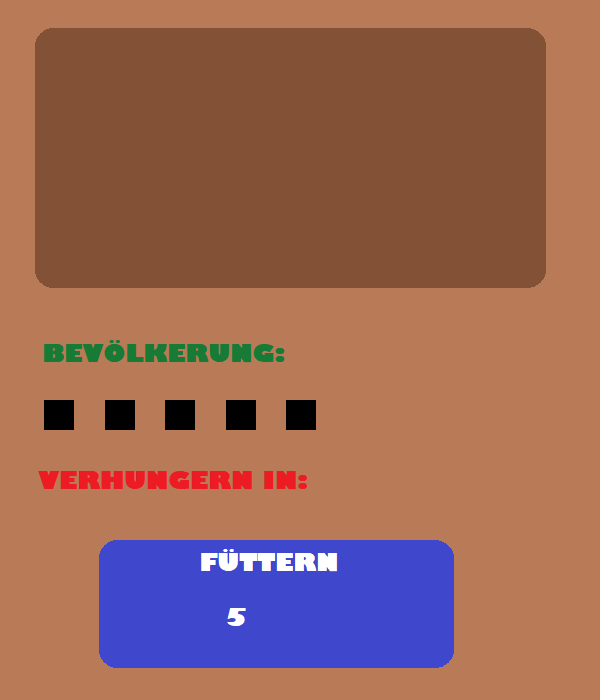
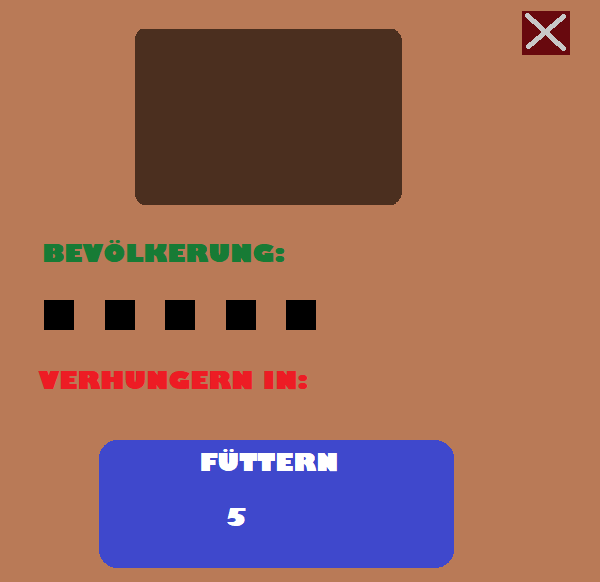
BarnInfo Zeichnungsprobleme

diff --git a/src/model/GameObjects/BarnInfo.java b/src/model/GameObjects/BarnInfo.java
@@ -18,7 +18,7 @@ public class BarnInfo extends GraphicalObject {
     private ProgramController pc;
     private boolean klicked, visible = false;
     private Barn b;
-    private BufferedImage food, point, barn;
+    private BufferedImage food, point1, point2, point3, point4, point5, barn;
     private Rectangle2D.Double hitbox;
 
     public BarnInfo(double x, double y, ProgramController pc, Barn b){
@@ -38,7 +38,12 @@ public class BarnInfo extends GraphicalObject {
             if(b.getFood().equals("cherry"))food = ImageIO.read(new File("assets/images/UiImages/cherry.png"));
             if(b.getFood().equals("carrot"))food = ImageIO.read(new File("assets/images/UiImages/carrot.png"));
             if(b.getFood().equals("wheat"))food = ImageIO.read(new File("assets/images/UiImages/wheat.png"));
-            point = ImageIO.read(new File("assets/images/UiImages/cherry.png"));
+            point1 = ImageIO.read(new File("assets/images/UiImages/point.png"));
+            point2 = ImageIO.read(new File("assets/images/UiImages/point.png"));
+            point3 = ImageIO.read(new File("assets/images/UiImages/point.png"));
+            point4 = ImageIO.read(new File("assets/images/UiImages/point.png"));
+            point5 = ImageIO.read(new File("assets/images/UiImages/point.png"));
+
             barn = b.getBarnImage();
 
 
@@ -49,9 +54,22 @@ public class BarnInfo extends GraphicalObject {
 
     @Override
     public void draw(DrawTool drawTool) {
-        System.out.println("Stinka");
+
         if(visible){
             drawTool.drawImage(getMyImage(),x, y);
+
+
+            drawTool.drawImage(barn,x+250,y+90);
+
+            if(b.getAllAnimals()>=1)drawTool.drawImage(point1,x+44,y+300);
+            if(b.getAllAnimals()>=2)drawTool.drawImage(point1,x+105,y+300);
+            if(b.getAllAnimals()>=3)drawTool.drawImage(point1,x+165,y+300);
+            if(b.getAllAnimals()>=4)drawTool.drawImage(point1,x+226,y+300);
+            if(b.getAllAnimals()>=5)drawTool.drawImage(point1,x+286,y+300);
+
+            drawTool.drawImage(food,x+260,y+495);
+
+
         }
     }
 
@@ -63,6 +81,11 @@ public class BarnInfo extends GraphicalObject {
                     System.out.println("Fütterungszeit");
                 }
             }
+
+            if(e.getX()>x+522&&e.getX()<x+569&&e.getY()>y+11&&e.getY()<y+54){
+                visible = false;
+            }
+
         }
         klicked =! klicked;
     }

diff --git a/src/model/GameObjects/Barn.java b/src/model/GameObjects/Barn.java
@@ -44,6 +44,7 @@ public class Barn extends ProducingObject {
             food = "cherry";
         }
         barnInfo = new BarnInfo(400,50,pc,this);
+        ui.drawObject(barnInfo);
     }
 
     /*@Override
@@ -156,6 +157,16 @@ public class Barn extends ProducingObject {
           }
           klicked = !klicked;
         }
+    }
+
+    public int getAllAnimals(){
+       int animalCounter = 0;
+        for(int i = 0; i < animals.length; i++){
+            if(animals[i]!=null){
+                animalCounter++;
+            }
+        }
+        return animalCounter;
     }
 
 }

diff --git a/src/control/ProgramController.java b/src/control/ProgramController.java
@@ -291,6 +291,10 @@ public class ProgramController {
         }
     }
 
+    public void setBarnInfoVisibility(boolean a){
+
+    }
+
     public void addWood(int amount){
         userInterface.addWood(amount);
         sqlHandler.updateWood();
